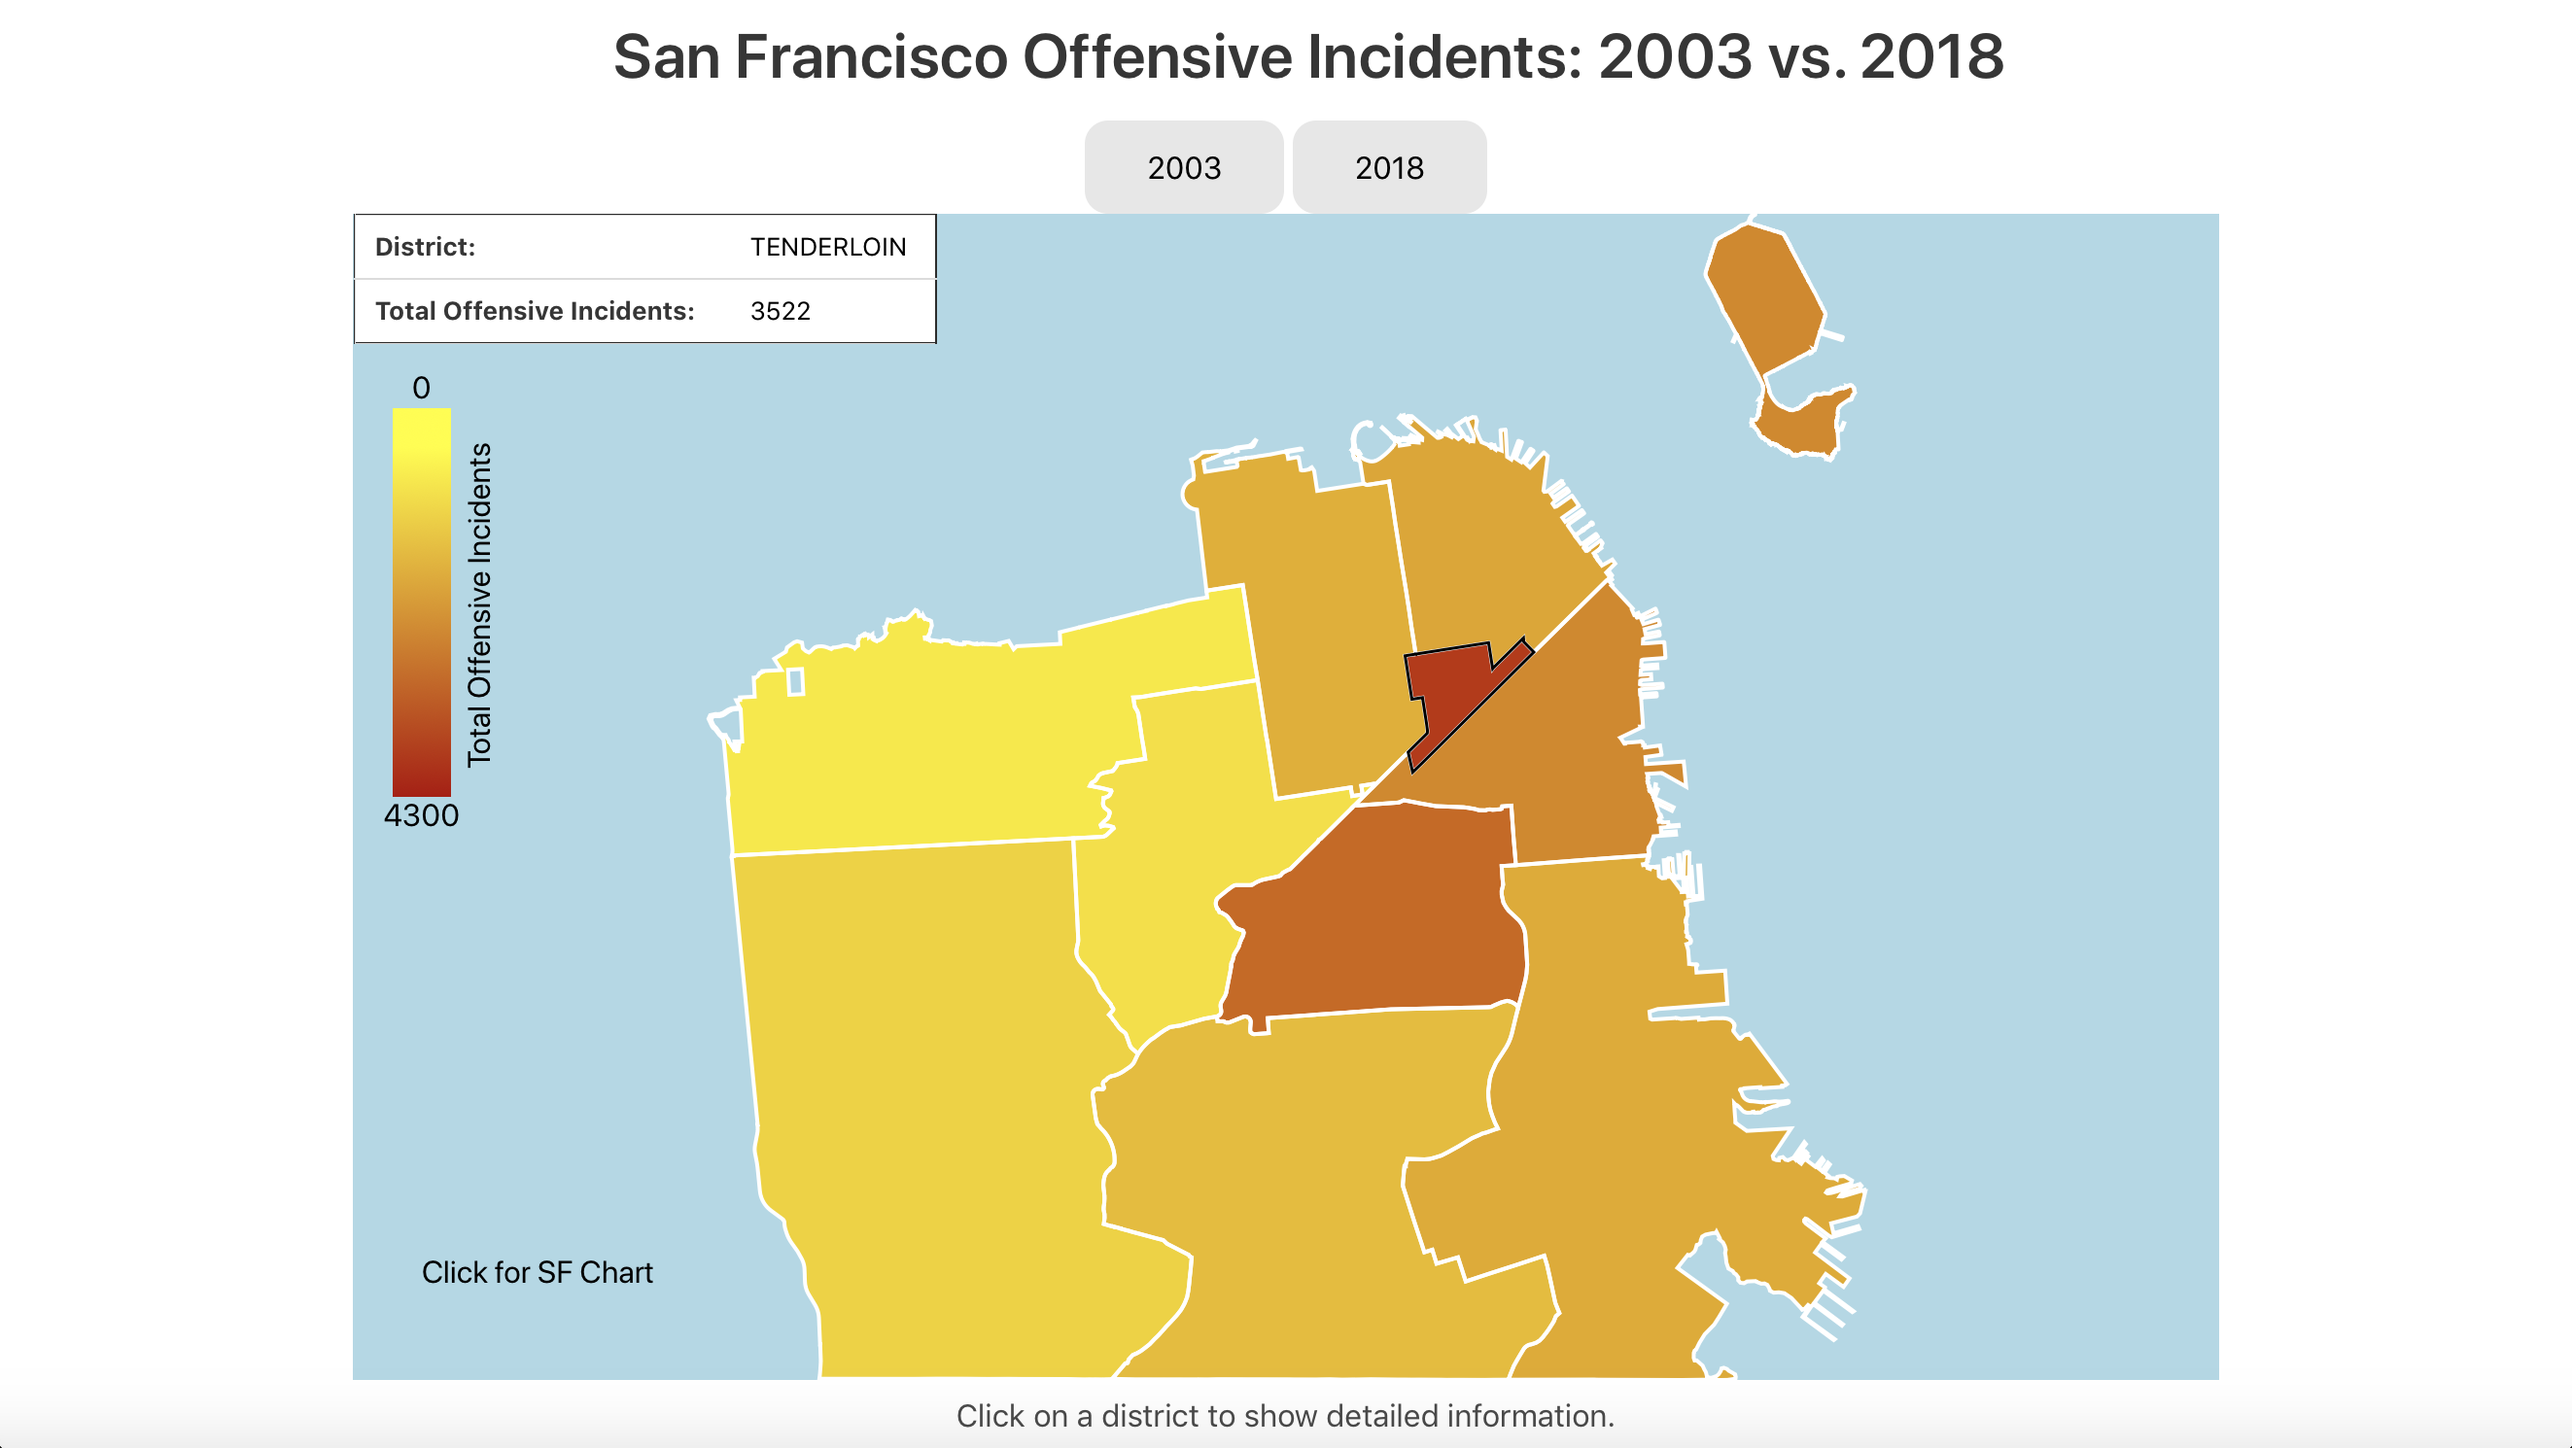
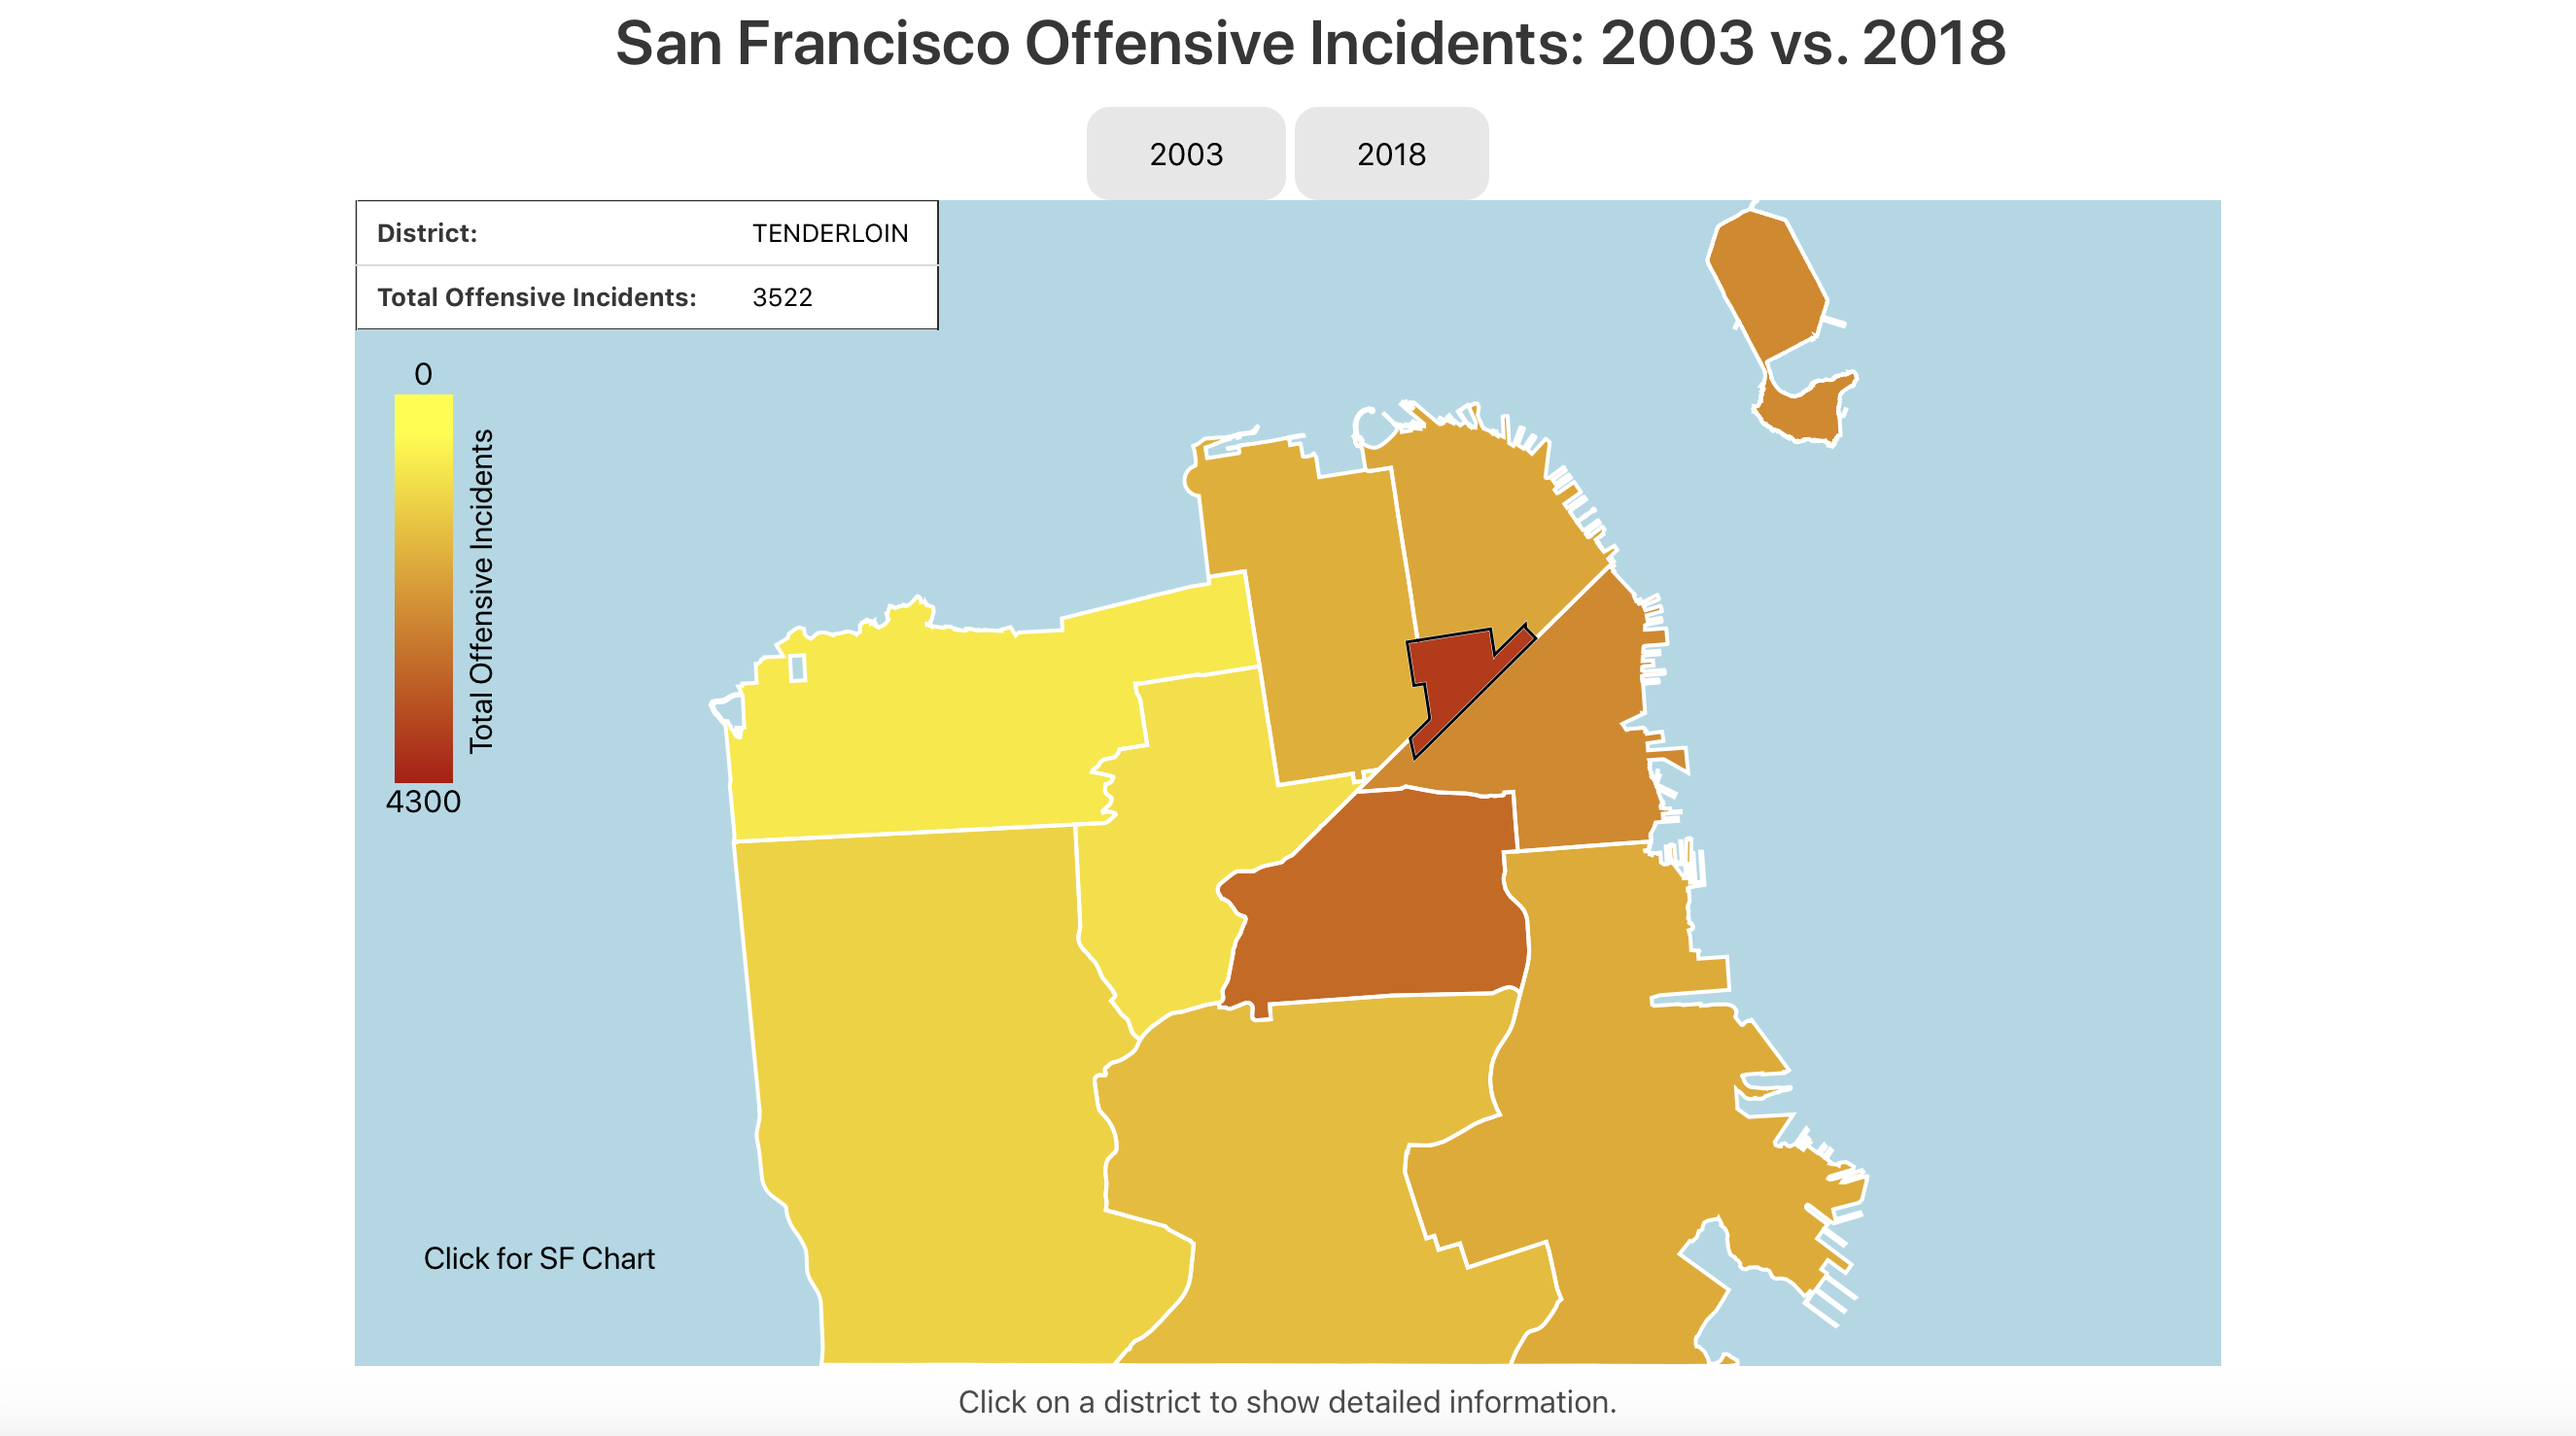
Update.

diff --git a/projects/fairshare.html b/projects/fairshare.html
@@ -30,7 +30,7 @@
 
   <div class="right">
     <h1>FairShare - easy way to split bills fairly</h1>
-    <p>FairShare makes it easy to know how much you pay when you go out and eat with your friends.Simply enter the prices, choose what's yours, and it calculates for you.</p>
+    <p>FairShare makes it easy to know how much you pay when you go out and eat with your friends. Simply enter the prices, choose what's yours, and it calculates for you.</p>
     <p>This is an app that I created during the Summer of 2017 while attending the Make School Summer Academy, a program which helped me develop Swift coding and app creation skills. Know more about Make School <u><a href= "https://www.makeschool.com" target="_blank" style="color: black">here</a></u>.</p>
     <p>The development process of this app/project is very important to me. It helped me understand coding logics better than any
       experience I have had. Before this project, I struggled with logics and algorithms and was not so sure if computer

diff --git a/style.css b/style.css
@@ -5,6 +5,7 @@ body {font-family: Barlow;}
   margin-right: 5%;
   float:right;
   width:40%;
+  text-align: justify;
 }
 .card {
   padding:20px;
@@ -38,7 +39,7 @@ a.link {
 /* Mobile version*/
 @media screen and (max-width: 900px) {
   body {font-size: 18px;}
-  p {margin: 5%;}
+  p {padding: 5%}
   h1 {text-align: center;}
   .card {
     margin-top: 2em;

diff --git a/projects/sfincidents.html b/projects/sfincidents.html
@@ -10,7 +10,7 @@
   <style>
   .right{margin-top: -52.7%}
   .screenshots{margin-top: 0; margin-left: 2em;}
-  img.screenshot {margin-top: 2%; width: 41%;}
+  img.screenshot {margin-top: 2%; width: 45%;}
   @media screen and (max-width: 900px) {
     .right{margin-top: -5%;}
     img.screenshot {width: 100%; margin-left: 0%; margin-bottom: 10%;}
